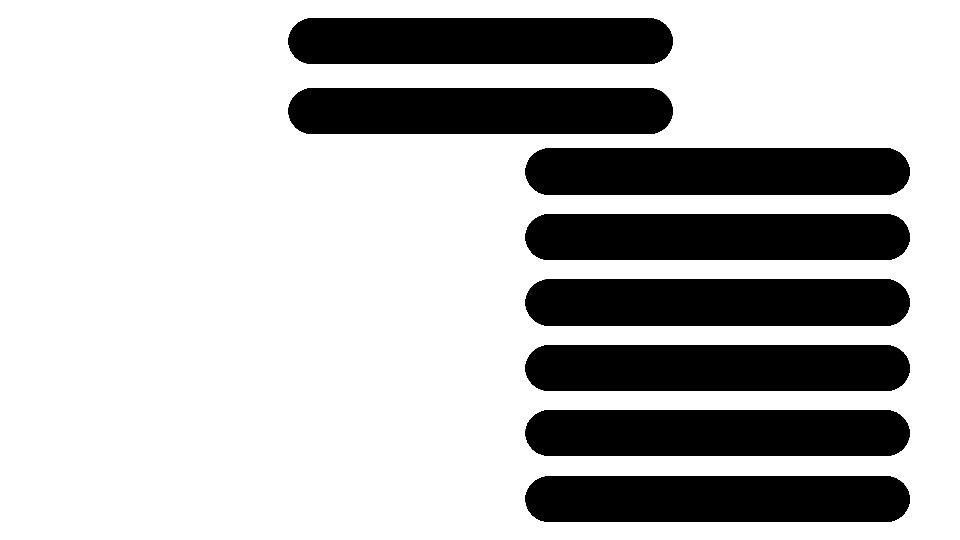
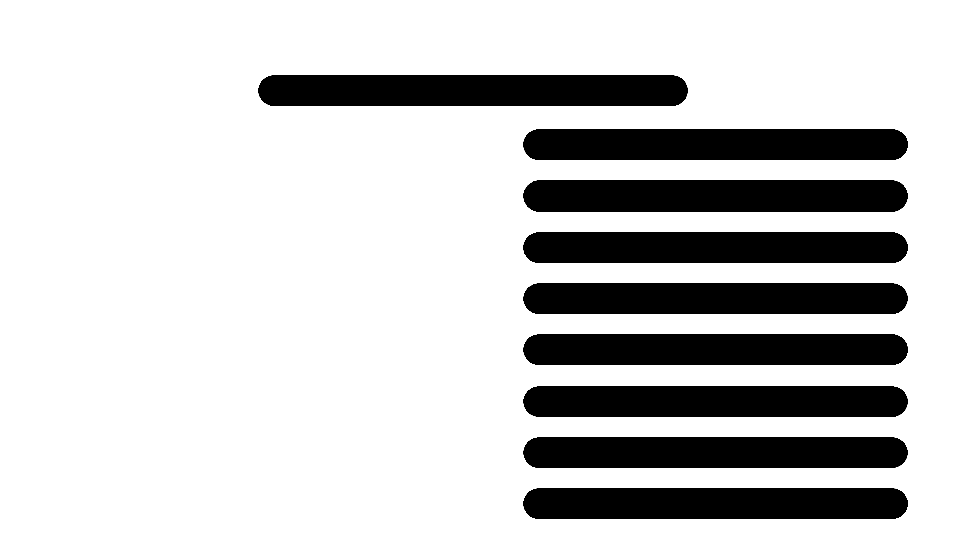
Novo modelo acabou de dropar

Changed region(s): [[0.25, 0.0296, 0.9688, 0.5333], [0.5312, 0.563, 0.9688, 0.9185], [0.5625, 0.9481, 0.9375, 0.9778]]

diff --git a/ru/management/commands/update.py b/ru/management/commands/update.py
@@ -22,7 +22,6 @@ MEALS = [RU.ALMOÇO, RU.JANTAR]
 MEAL_PATTERN = f'({"|".join(MEALS)})'
 
 CAMPUSES = [RU.SÃO_CARLOS, RU.ARARAS, RU.SOROCABA, RU.LAGOA_DO_SINO]
-CAMPUS_PATTERN = f'({"|".join(CAMPUSES)})'
 
 BASE_URL = 'https://www.facebook.com'
 
@@ -32,25 +31,23 @@ ALBUM_URL = BASE_URL + '/media/set/?set=a.160605075654161'
 # Size of the images we expect to be posted.
 IMAGE_SIZE = (960, 540)
 
-# Rectangle bounds for where we expect the campus name to be written.
-# Bounds are written as (left, upper, right, lower).
-CAMPUS_BOUNDS = (281, 10, 679, 70)
-
 # Rectangle bounds for where we expect the date to be written.
-DATE_BOUNDS = (281, 81, 679, 140)
+# Bounds are written as (left, upper, right, lower).
+DATE_BOUNDS = (254, 72, 690, 108)
 
 # Rectangle bounds for where we expect data to be written.
-BOUNDS = [
-    (512, 141, 916, 201), # Main dish
-    (512, 207, 916, 266), # Vegetarian
-    (512, 272, 916, 332), # Garrison
-    (512, 338, 916, 397), # Accompaniment
-    (512, 403, 916, 462), # Salad
-    (512, 469, 916, 528), # Dessert
-]
+MAIN_DISH_BOUNDS     = (520, 126, 910, 162)
+VEGETARIAN_BOUNDS    = (520, 177, 910, 214)
+EXTRA_BOUNDS         = (520, 229, 910, 265)
+GARNISH_BOUNDS       = (520, 280, 910, 316)
+SALAD_BOUNDS         = (520, 331, 910, 367)
+ACCOMPANIMENT_BOUNDS = (520, 383, 910, 419)
+DESSERT_BOUNDS       = (520, 434, 910, 470)
+JUICE_BOUNDS         = (520, 485, 910, 521)
 
 # Dictionary for correcting Tesseract jank on a case-by-case basis.
 CORRECTIONS = {
+    'C/': 'c/',
     'Com': 'com',
     'Pts': 'PTS',
     'De': 'de',
@@ -91,8 +88,8 @@ def preprocess(img):
     return img.convert(mode='RGB')
 
 
-def read_and_postprocess(img):
-    text = image_to_string(img, lang='por')
+def read_img(img, bounds):
+    text = image_to_string(img.crop(bounds), lang='por')
     text = text.lower()
     text = re.sub('\s+', ' ', text)
     out = []
@@ -103,26 +100,18 @@ def read_and_postprocess(img):
         out.append(word)
     return ' '.join(out)
 
-
 class Meal:
     def __init__(self, img):
         img = preprocess(Image.open(io.BytesIO(img)).resize(IMAGE_SIZE))
 
-        # Recognize the campus.
-        campus = read_and_postprocess(img.crop(CAMPUS_BOUNDS))
-        campus_match = re.search(CAMPUS_PATTERN, campus)
-        if campus_match == None:
-            raise UnrecognizedImageError
-
         # Recognize the date.
-        datestr = read_and_postprocess(img.crop(DATE_BOUNDS))
+        datestr = read_img(img, DATE_BOUNDS)
         date_match = re.search(DATE_PATTERN, datestr)
         meal_match = re.search(MEAL_PATTERN, datestr)
         if date_match == None or meal_match == None:
             raise UnrecognizedImageError
 
         try:
-            self.campus = campus_match.group(1)
             self.day = int(date_match.group(1))
             self.month = int(date_match.group(2))
             self.meal_type = meal_match.group(1)
@@ -130,23 +119,25 @@ class Meal:
             raise UnrecognizedImageError
 
         # Recognize meal data.
-        strings = [read_and_postprocess(img.crop(bound)) for bound in BOUNDS]
-
-        self.main_dish_unrestricted = strings[0]
-        self.main_dish_vegetarian = strings[1]
-        self.garnish = strings[2]
-        self.accompaniment = strings[3]
-        self.salads = strings[4]
-        self.dessert = strings[5]
+        self.main_dish_unrestricted = read_img(img, MAIN_DISH_BOUNDS)
+        self.main_dish_vegetarian = read_img(img, VEGETARIAN_BOUNDS)
+        self.main_dish_extra = read_img(img, EXTRA_BOUNDS)
+        self.garnish = read_img(img, GARNISH_BOUNDS)
+        self.accompaniment = read_img(img, ACCOMPANIMENT_BOUNDS)
+        self.salads = read_img(img, SALAD_BOUNDS)
+        self.dessert = read_img(img, DESSERT_BOUNDS)
+        self.juice = read_img(img,JUICE_BOUNDS)
 
     def display(self):
-        print(f"{self.campus} ~ {self.day}/{self.month} ~ {self.meal_type}")
+        print(f"{self.day}/{self.month} ~ {self.meal_type}")
         print("\tPrato Principal sem Restrição:", self.main_dish_unrestricted)
         print("\tPrato Principal Vegetariano:", self.main_dish_vegetarian)
+        print("\tPrato Principal Extra:", self.main_dish_extra)
         print("\tGuarnição:", self.garnish)
         print("\tAcompanhamento:", self.accompaniment)
         print("\tSaladas:", self.salads)
         print("\tSobremesa:", self.dessert)
+        print("\tSuco:", self.juice)
 
 
 async def download_image(url):
@@ -230,24 +221,34 @@ async def get_meals(until):
         await browser.close()
 
 
+def nearest_date(month, day):
+    current_year = datetime.now().year
+    dates = []
+    for year in [current_year - 1, current_year, current_year + 1]:
+        date = datetime(year, month, day)
+        dates.append((abs(datetime.now() - date), date))
+    return min(dates)[1]
+
+
 def store_meals(meals):
     for meal in meals:
-        # FIXME Doesn't work near Jan 1st.
-        year = datetime.now().year
-        try:
-            RU.objects.create(
-                date=datetime(year=year, month=meal.month, day=meal.day),
-                campus=meal.campus,
-                meal_type=meal.meal_type,
-                main_dish_unrestricted=meal.main_dish_unrestricted,
-                main_dish_vegetarian=meal.main_dish_vegetarian,
-                garnish=meal.garnish,
-                accompaniment=meal.accompaniment,
-                salads=meal.salads,
-                dessert=meal.dessert,
-            )
-        except IntegrityError as _:
-            continue
+        for campus in CAMPUSES:
+            try:
+                RU.objects.create(
+                    date=nearest_date(meal.month, meal.day),
+                    campus=campus,
+                    meal_type=meal.meal_type,
+                    main_dish_unrestricted=meal.main_dish_unrestricted,
+                    main_dish_vegetarian=meal.main_dish_vegetarian,
+                    main_dish_extra=meal.main_dish_extra,
+                    garnish=meal.garnish,
+                    accompaniment=meal.accompaniment,
+                    salads=meal.salads,
+                    dessert=meal.dessert,
+                    juice=meal.juice,
+                )
+            except IntegrityError as _:
+                continue
 
 
 class Command(BaseCommand):
@@ -259,7 +260,7 @@ class Command(BaseCommand):
         # Prune objects older than a week, but keep at least 1.
         count = RU.objects.count()
         for obj in RU.objects.all():
-            age = obj.date - date.today()
+            age = date.today() - obj.date
             if age.days > 7 and count > 1:
                 obj.delete()
                 count = count - 1

diff --git a/ru/migrations/0002_ru_juice_ru_main_dish_extra_alter_ru_accompaniment_and_more.py b/ru/migrations/0002_ru_juice_ru_main_dish_extra_alter_ru_accompaniment_and_more.py
@@ -1,0 +1,53 @@
+# Generated by Django 4.0.5 on 2022-07-03 21:53
+
+from django.db import migrations, models
+
+
+class Migration(migrations.Migration):
+
+    dependencies = [
+        ('ru', '0001_initial'),
+    ]
+
+    operations = [
+        migrations.AddField(
+            model_name='ru',
+            name='juice',
+            field=models.CharField(default='', max_length=100),
+        ),
+        migrations.AddField(
+            model_name='ru',
+            name='main_dish_extra',
+            field=models.CharField(default='', max_length=100),
+        ),
+        migrations.AlterField(
+            model_name='ru',
+            name='accompaniment',
+            field=models.CharField(default='', max_length=100),
+        ),
+        migrations.AlterField(
+            model_name='ru',
+            name='dessert',
+            field=models.CharField(default='', max_length=100),
+        ),
+        migrations.AlterField(
+            model_name='ru',
+            name='garnish',
+            field=models.CharField(default='', max_length=100),
+        ),
+        migrations.AlterField(
+            model_name='ru',
+            name='main_dish_unrestricted',
+            field=models.CharField(default='', max_length=100),
+        ),
+        migrations.AlterField(
+            model_name='ru',
+            name='main_dish_vegetarian',
+            field=models.CharField(default='', max_length=100),
+        ),
+        migrations.AlterField(
+            model_name='ru',
+            name='salads',
+            field=models.CharField(default='', max_length=100),
+        ),
+    ]

diff --git a/ru/models.py b/ru/models.py
@@ -27,12 +27,15 @@ class RU(models.Model):
 
     created_at = models.DateTimeField(auto_now_add=True)
     date = models.DateField()
-    main_dish_unrestricted = models.CharField(max_length=100)
-    main_dish_vegetarian = models.CharField(max_length=100)
-    garnish = models.CharField(max_length=100)
-    accompaniment = models.CharField(max_length=100)
-    salads = models.CharField(max_length=100)
-    dessert = models.CharField(max_length=100)
+
+    main_dish_unrestricted = models.CharField(default='', max_length=100)
+    main_dish_vegetarian = models.CharField(default='', max_length=100)
+    main_dish_extra = models.CharField(default='', max_length=100)
+    garnish = models.CharField(default='', max_length=100)
+    accompaniment = models.CharField(default='', max_length=100)
+    salads = models.CharField(default='', max_length=100)
+    dessert = models.CharField(default='', max_length=100)
+    juice = models.CharField(default='', max_length=100)
 
     class Meta:
         constraints = [
